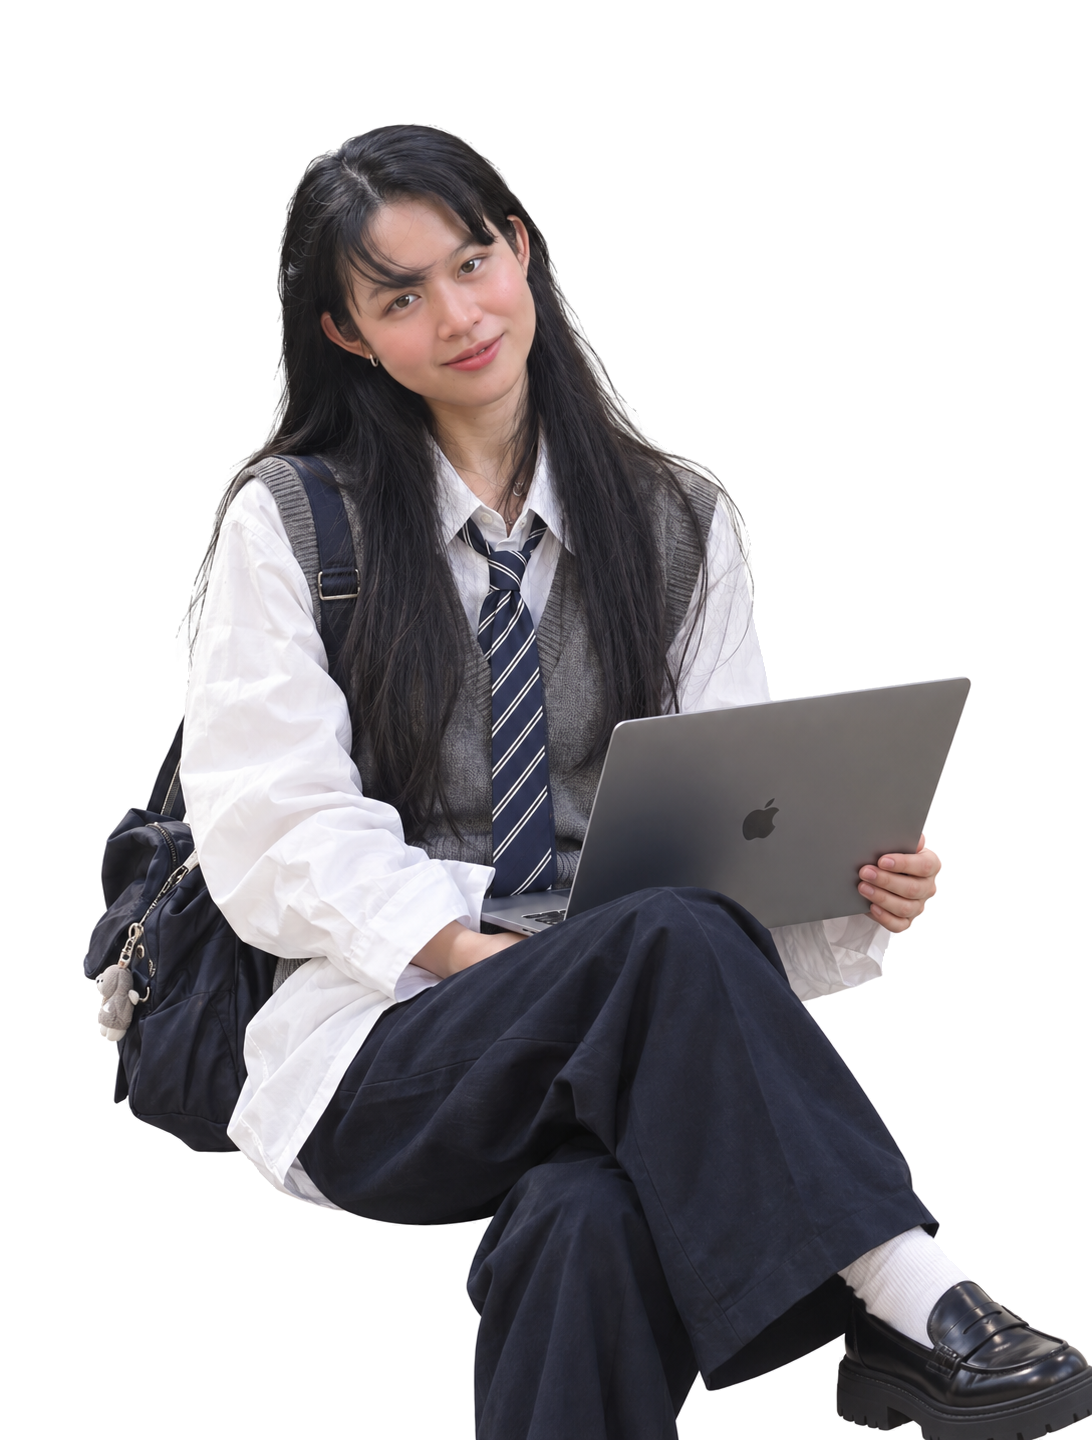
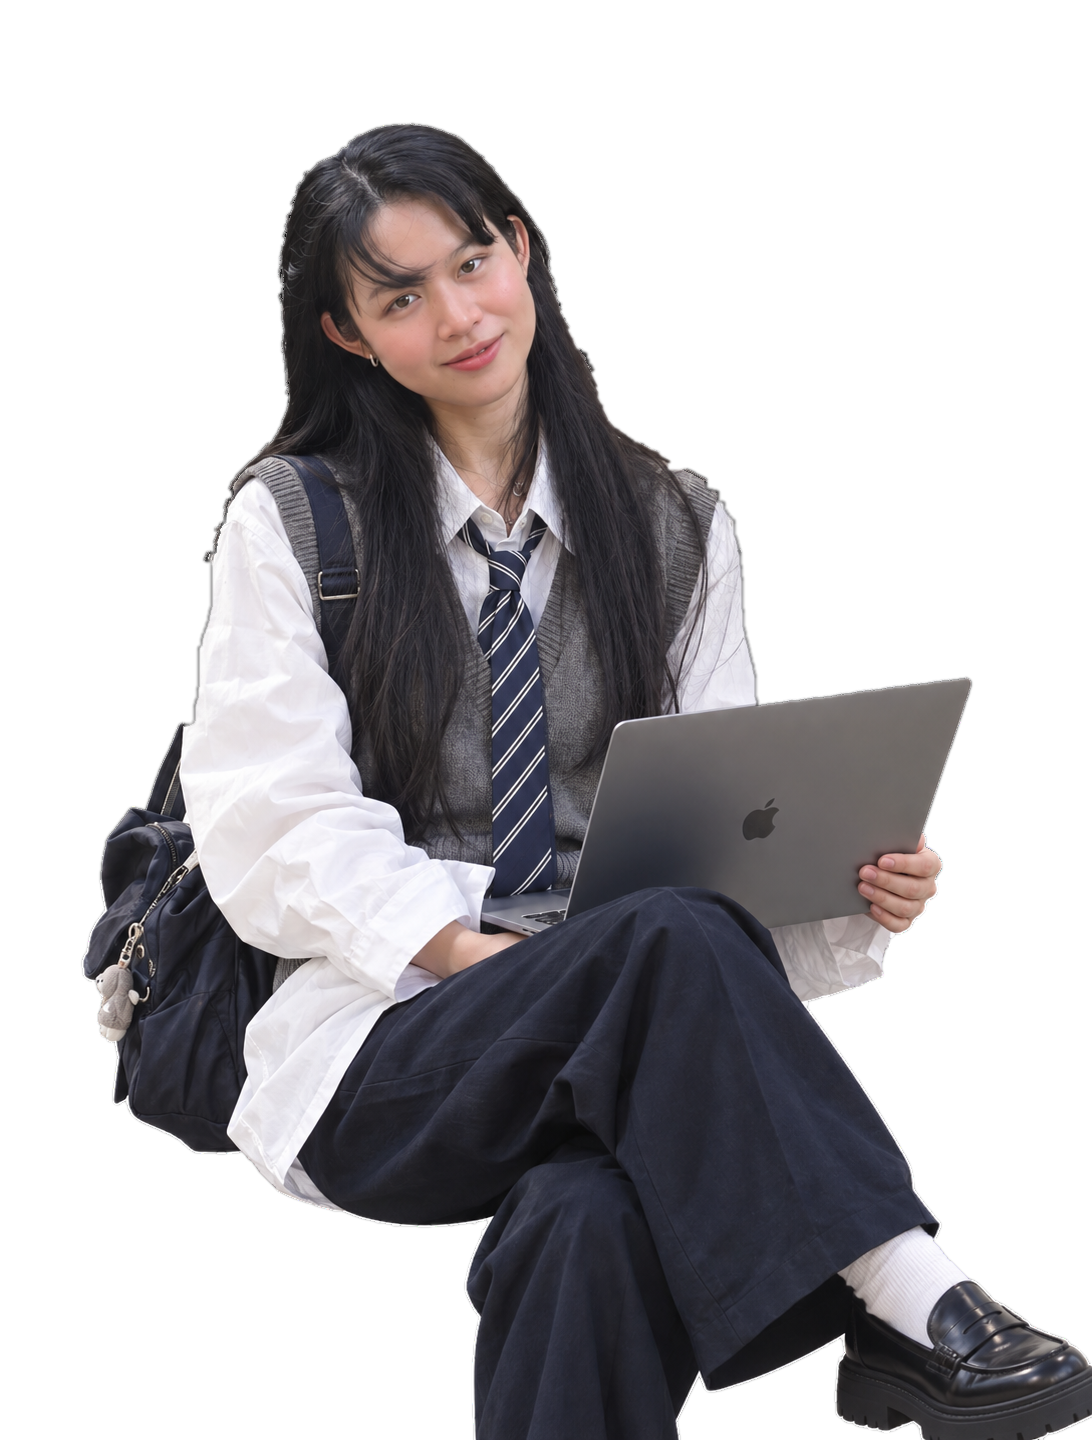
Fix student photo edge, keep original data and artist

diff --git a/game/index.html b/game/index.html
@@ -8,7 +8,7 @@
 <link rel="preconnect" href="https://fonts.googleapis.com">
 <link rel="preconnect" href="https://fonts.gstatic.com" crossorigin>
 <link rel="stylesheet" href="https://fonts.googleapis.com/css2?family=Inter:wght@400;500;600;700;800&display=swap">
-<link rel="stylesheet" href="../assets/css/style.css?v=20260930e">
+<link rel="stylesheet" href="../assets/css/style.css?v=20260930g">
 </head>
 <body id="top" data-root="../">
 <nav class="nav" aria-label="Main">
@@ -33,7 +33,7 @@
 </section>
 </main>
 <footer class="foot"><div class="wrap"><span>Preeyanan Khamfoei · Brisbane</span><span><a href="../profile/">Contact</a> · <a href="#top">Back to top ↑</a></span></div></footer>
-<script src="../assets/js/site.js?v=20260930e"></script>
-<script src="../assets/js/game.js?v=20260930e"></script>
+<script src="../assets/js/site.js?v=20260930g"></script>
+<script src="../assets/js/game.js?v=20260930g"></script>
 </body>
 </html>

diff --git a/index.html b/index.html
@@ -8,7 +8,7 @@
 <link rel="preconnect" href="https://fonts.googleapis.com">
 <link rel="preconnect" href="https://fonts.gstatic.com" crossorigin>
 <link rel="stylesheet" href="https://fonts.googleapis.com/css2?family=Inter:wght@400;500;600;700;800&display=swap">
-<link rel="stylesheet" href="assets/css/style.css?v=20260930e">
+<link rel="stylesheet" href="assets/css/style.css?v=20260930g">
 </head>
 <body id="top" data-root="">
 <nav class="nav" aria-label="Main">
@@ -55,7 +55,7 @@
 </section>
 </main>
 <footer class="foot"><div class="wrap"><span>Preeyanan Khamfoei · Brisbane</span><span><a href="profile/">Contact</a> · <a href="#top">Back to top ↑</a></span></div></footer>
-<script src="assets/js/site.js?v=20260930e"></script>
-<script src="assets/js/dial.js?v=20260930e"></script>
+<script src="assets/js/site.js?v=20260930g"></script>
+<script src="assets/js/dial.js?v=20260930g"></script>
 </body>
 </html>

diff --git a/artist/index.html b/artist/index.html
@@ -8,7 +8,7 @@
 <link rel="preconnect" href="https://fonts.googleapis.com">
 <link rel="preconnect" href="https://fonts.gstatic.com" crossorigin>
 <link rel="stylesheet" href="https://fonts.googleapis.com/css2?family=Inter:wght@400;500;600;700;800&display=swap">
-<link rel="stylesheet" href="../assets/css/style.css?v=20260930e">
+<link rel="stylesheet" href="../assets/css/style.css?v=20260930g">
 </head>
 <body id="top" data-root="../" style="--c:#8b5020">
 <nav class="nav" aria-label="Main">
@@ -44,6 +44,6 @@
 </nav></div>
 </main>
 <footer class="foot"><div class="wrap"><span>Preeyanan Khamfoei · Brisbane</span><span><a href="../profile/">Contact</a> · <a href="#top">Back to top ↑</a></span></div></footer>
-<script src="../assets/js/site.js?v=20260930e"></script>
+<script src="../assets/js/site.js?v=20260930g"></script>
 </body>
 </html>

diff --git a/data/index.html b/data/index.html
@@ -8,7 +8,7 @@
 <link rel="preconnect" href="https://fonts.googleapis.com">
 <link rel="preconnect" href="https://fonts.gstatic.com" crossorigin>
 <link rel="stylesheet" href="https://fonts.googleapis.com/css2?family=Inter:wght@400;500;600;700;800&display=swap">
-<link rel="stylesheet" href="../assets/css/style.css?v=20260930e">
+<link rel="stylesheet" href="../assets/css/style.css?v=20260930g">
 </head>
 <body id="top" data-root="../" style="--c:#4a2a6e">
 <nav class="nav" aria-label="Main">
@@ -62,6 +62,6 @@
 </nav></div>
 </main>
 <footer class="foot"><div class="wrap"><span>Preeyanan Khamfoei · Brisbane</span><span><a href="../profile/">Contact</a> · <a href="#top">Back to top ↑</a></span></div></footer>
-<script src="../assets/js/site.js?v=20260930e"></script>
+<script src="../assets/js/site.js?v=20260930g"></script>
 </body>
 </html>

diff --git a/designer/index.html b/designer/index.html
@@ -8,7 +8,7 @@
 <link rel="preconnect" href="https://fonts.googleapis.com">
 <link rel="preconnect" href="https://fonts.gstatic.com" crossorigin>
 <link rel="stylesheet" href="https://fonts.googleapis.com/css2?family=Inter:wght@400;500;600;700;800&display=swap">
-<link rel="stylesheet" href="../assets/css/style.css?v=20260930e">
+<link rel="stylesheet" href="../assets/css/style.css?v=20260930g">
 </head>
 <body id="top" data-root="../" style="--c:#2f6f9f">
 <nav class="nav" aria-label="Main">
@@ -45,6 +45,6 @@
 </nav></div>
 </main>
 <footer class="foot"><div class="wrap"><span>Preeyanan Khamfoei · Brisbane</span><span><a href="../profile/">Contact</a> · <a href="#top">Back to top ↑</a></span></div></footer>
-<script src="../assets/js/site.js?v=20260930e"></script>
+<script src="../assets/js/site.js?v=20260930g"></script>
 </body>
 </html>

diff --git a/hobby/index.html b/hobby/index.html
@@ -8,7 +8,7 @@
 <link rel="preconnect" href="https://fonts.googleapis.com">
 <link rel="preconnect" href="https://fonts.gstatic.com" crossorigin>
 <link rel="stylesheet" href="https://fonts.googleapis.com/css2?family=Inter:wght@400;500;600;700;800&display=swap">
-<link rel="stylesheet" href="../assets/css/style.css?v=20260930e">
+<link rel="stylesheet" href="../assets/css/style.css?v=20260930g">
 </head>
 <body id="top" data-root="../" style="--c:#a8456a">
 <nav class="nav" aria-label="Main">
@@ -43,6 +43,6 @@
 </nav></div>
 </main>
 <footer class="foot"><div class="wrap"><span>Preeyanan Khamfoei · Brisbane</span><span><a href="../profile/">Contact</a> · <a href="#top">Back to top ↑</a></span></div></footer>
-<script src="../assets/js/site.js?v=20260930e"></script>
+<script src="../assets/js/site.js?v=20260930g"></script>
 </body>
 </html>

diff --git a/student/index.html b/student/index.html
@@ -8,7 +8,7 @@
 <link rel="preconnect" href="https://fonts.googleapis.com">
 <link rel="preconnect" href="https://fonts.gstatic.com" crossorigin>
 <link rel="stylesheet" href="https://fonts.googleapis.com/css2?family=Inter:wght@400;500;600;700;800&display=swap">
-<link rel="stylesheet" href="../assets/css/style.css?v=20260930e">
+<link rel="stylesheet" href="../assets/css/style.css?v=20260930g">
 </head>
 <body id="top" data-root="../" style="--c:#4f5263">
 <nav class="nav" aria-label="Main">
@@ -78,6 +78,6 @@
 </nav></div>
 </main>
 <footer class="foot"><div class="wrap"><span>Preeyanan Khamfoei · Brisbane</span><span><a href="../profile/">Contact</a> · <a href="#top">Back to top ↑</a></span></div></footer>
-<script src="../assets/js/site.js?v=20260930e"></script>
+<script src="../assets/js/site.js?v=20260930g"></script>
 </body>
 </html>

diff --git a/traveller/index.html b/traveller/index.html
@@ -8,7 +8,7 @@
 <link rel="preconnect" href="https://fonts.googleapis.com">
 <link rel="preconnect" href="https://fonts.gstatic.com" crossorigin>
 <link rel="stylesheet" href="https://fonts.googleapis.com/css2?family=Inter:wght@400;500;600;700;800&display=swap">
-<link rel="stylesheet" href="../assets/css/style.css?v=20260930e">
+<link rel="stylesheet" href="../assets/css/style.css?v=20260930g">
 </head>
 <body id="top" data-root="../" style="--c:#43843f">
 <nav class="nav" aria-label="Main">
@@ -44,6 +44,6 @@
 </nav></div>
 </main>
 <footer class="foot"><div class="wrap"><span>Preeyanan Khamfoei · Brisbane</span><span><a href="../profile/">Contact</a> · <a href="#top">Back to top ↑</a></span></div></footer>
-<script src="../assets/js/site.js?v=20260930e"></script>
+<script src="../assets/js/site.js?v=20260930g"></script>
 </body>
 </html>

diff --git a/profile/index.html b/profile/index.html
@@ -8,7 +8,7 @@
 <link rel="preconnect" href="https://fonts.googleapis.com">
 <link rel="preconnect" href="https://fonts.gstatic.com" crossorigin>
 <link rel="stylesheet" href="https://fonts.googleapis.com/css2?family=Inter:wght@400;500;600;700;800&display=swap">
-<link rel="stylesheet" href="../assets/css/style.css?v=20260930e">
+<link rel="stylesheet" href="../assets/css/style.css?v=20260930g">
 </head>
 <body id="top" data-root="../">
 <nav class="nav" aria-label="Main">
@@ -43,6 +43,6 @@
 </section>
 </main>
 <footer class="foot"><div class="wrap"><span>Preeyanan Khamfoei · Brisbane</span><span><a href="../profile/">Contact</a> · <a href="#top">Back to top ↑</a></span></div></footer>
-<script src="../assets/js/site.js?v=20260930e"></script>
+<script src="../assets/js/site.js?v=20260930g"></script>
 </body>
 </html>

diff --git a/assets/js/site.js b/assets/js/site.js
@@ -10,7 +10,7 @@ var ROLES = [
 /* Real photos. Each file is a cut-out on a transparent square 1.4x the circle,
    with the circle in the middle, so the head and props can pop out of the circle. */
 var PHOTOS = {
-  student: 'assets/img/student-pop.webp',
+  student: 'assets/img/student-pop3.webp',
   artist: 'assets/img/artist-pop.webp',
   data: 'assets/img/data-pop2.webp'
 };
